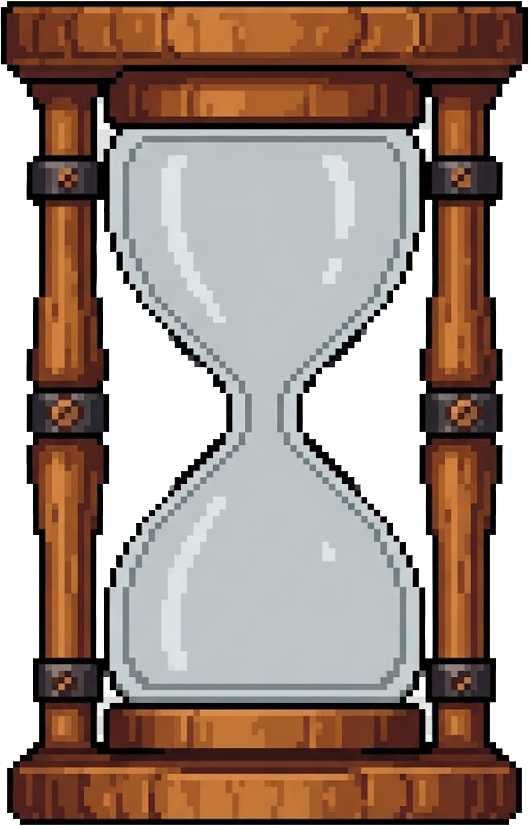
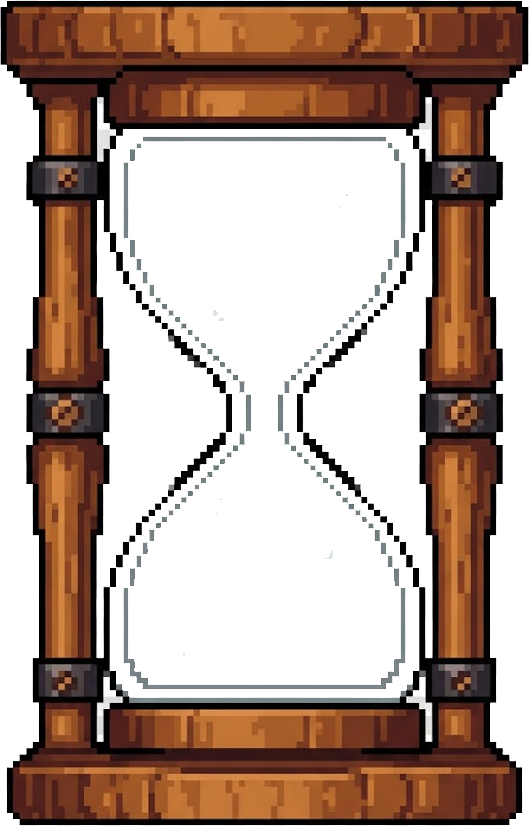
後台新增掃描器條碼、前端修改透明沙漏

diff --git a/functions/api/admin/update-boardgame-details.js b/functions/api/admin/update-boardgame-details.js
@@ -44,10 +44,18 @@ export async function onRequest(context) {
   
     const db = context.env.DB;
     
+    const barcode = body.barcode ? String(body.barcode).trim() : null;
+    if (barcode) {
+        const dup = await db.prepare('SELECT game_id FROM BoardGames WHERE barcode = ? AND game_id != ?').bind(barcode, body.gameId).first();
+        if (dup) {
+            return new Response(JSON.stringify({ error: `此條碼已被「${dup.game_id}」使用，請確認條碼是否重複。` }), { status: 400 });
+        }
+    }
+
     const stmt = db.prepare(
       `UPDATE BoardGames SET
-         name = ?, description = ?, image_url = ?, image_url_2 = ?, image_url_3 = ?, tags = ?,
-         min_players = ?, max_players = ?, difficulty = ?, play_time = ?,  
+         name = ?, barcode = ?, description = ?, image_url = ?, image_url_2 = ?, image_url_3 = ?, tags = ?,
+         min_players = ?, max_players = ?, difficulty = ?, play_time = ?,
          total_stock = ?, for_rent_stock = ?, for_sale_stock = ?,
          sale_price = ?, rent_price = ?, deposit = ?, late_fee_per_day = ?,
          is_visible = ?, supplementary_info = ?
@@ -56,7 +64,7 @@ export async function onRequest(context) {
     const is_visible = Number(body.total_stock) > 0 ? 1 : 0;
 
     const result = await stmt.bind(
-        body.name, body.description || '', body.image_url || '', body.image_url_2 || '', body.image_url_3 || '', body.tags || '',
+        body.name, barcode, body.description || '', body.image_url || '', body.image_url_2 || '', body.image_url_3 || '', body.tags || '',
         Number(body.min_players), Number(body.max_players), body.difficulty,
         body.play_time || '30~90分鐘',
         Number(body.total_stock), Number(body.for_rent_stock), Number(body.for_sale_stock) || 0,

diff --git a/functions/api/admin/create-boardgame.js b/functions/api/admin/create-boardgame.js
@@ -32,19 +32,27 @@ export async function onRequest(context) {
 
         const is_visible = total_stock > 0 ? 1 : 0;
 
+        const barcode = body.barcode ? String(body.barcode).trim() : null;
+        if (barcode) {
+            const dup = await db.prepare('SELECT game_id FROM BoardGames WHERE barcode = ?').bind(barcode).first();
+            if (dup) {
+                return new Response(JSON.stringify({ error: `此條碼已被「${dup.game_id}」使用，請確認條碼是否重複。` }), { status: 400 });
+            }
+        }
+
         const stmt = db.prepare(
           `INSERT INTO BoardGames (
-             game_id, name, description, image_url, image_url_2, image_url_3, tags,
+             game_id, name, barcode, description, image_url, image_url_2, image_url_3, tags,
              min_players, max_players, difficulty, play_time,
              total_stock, for_rent_stock, for_sale_stock,
              sale_price, rent_price, deposit, late_fee_per_day,
              is_visible, supplementary_info, display_order
-           ) VALUES (?, ?, ?, ?, ?, ?, ?, ?, ?, ?, ?, ?, ?, ?, ?, ?, ?, ?, ?, ?, 999)`
+           ) VALUES (?, ?, ?, ?, ?, ?, ?, ?, ?, ?, ?, ?, ?, ?, ?, ?, ?, ?, ?, ?, ?, 999)`
         );
 
         await stmt.bind(
             newGameId,
-            body.name, body.description || '', body.image_url || '', body.image_url_2 || '', body.image_url_3 || '', body.tags || '',
+            body.name, barcode, body.description || '', body.image_url || '', body.image_url_2 || '', body.image_url_3 || '', body.tags || '',
             Number(body.min_players) || 1, Number(body.max_players) || 4, body.difficulty || '普通',
             body.play_time || '30~90分鐘',
             total_stock, for_rent_stock, for_sale_stock,

diff --git a/public/admin/modules/inventoryManagement.js b/public/admin/modules/inventoryManagement.js
@@ -429,6 +429,7 @@ function renderGameList(games) {
 function gameMatchesTerm(game, term) {
     const t = term.toLowerCase();
     if ((game.name || '').toLowerCase().includes(t)) return true;
+    if ((game.barcode || '').toLowerCase().includes(t)) return true;
     if (Number(game.for_sale_stock) > 0 && '販售'.includes(t)) return true;
     if (Number(game.for_rent_stock) > 0 && '可租借'.includes(t)) return true;
     return (game.tags || '').split(',').some(tag => tag.trim().toLowerCase().includes(t) && tag.trim() !== '');
@@ -522,6 +523,7 @@ function openEditGameModal(gameId) {
         document.getElementById('edit-game-id-display').closest('.form-group').style.display = 'block';
 
         document.getElementById('edit-game-name').value = game.name;
+        document.getElementById('edit-game-barcode').value = game.barcode || '';
         document.getElementById('edit-game-image').value = game.image_url || '';
         document.getElementById('edit-game-image-2').value = game.image_url_2 || '';
         document.getElementById('edit-game-image-3').value = game.image_url_3 || '';
@@ -582,6 +584,7 @@ async function handleEditGameFormSubmit(e) {
 
     const updatedData = {
         name: document.getElementById('edit-game-name').value,
+        barcode: document.getElementById('edit-game-barcode').value.trim(),
         tags: document.getElementById('edit-game-tags').value,
         image_url: document.getElementById('edit-game-image').value,
         image_url_2: document.getElementById('edit-game-image-2').value,

diff --git a/public/admin-panel.html b/public/admin-panel.html
@@ -787,6 +787,10 @@
                                     <input type="text" id="edit-game-id-display" readonly style="background: #e9ecef;">
                                 </div>
                                 <div class="form-group">
+                                    <label for="edit-game-barcode">條碼 <small style="color:var(--text-light);">（將游標點入此欄後掃描）</small></label>
+                                    <input type="text" id="edit-game-barcode" placeholder="請掃描或手動輸入條碼">
+                                </div>
+                                <div class="form-group">
                                     <label>標籤 <small style="color:var(--text-light);">（Enter 新增，× 移除）</small></label>
                                     <div class="tag-chip-container" id="tag-chip-container">
                                         <input type="text" class="tag-chip-text-input" id="tag-chip-text-input" placeholder="輸入標籤後按 Enter">

diff --git a/public/style.css b/public/style.css
@@ -651,12 +651,6 @@ input[readonly] {
     position: relative;
     width: 20px;
     height: 31px;
-    background-image: url('hourglass-frame.png');
-    background-size: contain;
-    background-repeat: no-repeat;
-    background-position: center;
-    image-rendering: pixelated;
-    isolation: isolate;
 }
 .hourglass-fill-track {
     position: absolute;
@@ -664,6 +658,7 @@ input[readonly] {
     right: 20%;
     top: 13%;
     bottom: 15%;
+    overflow: hidden;
 }
 .hourglass-fill {
     position: absolute;
@@ -671,8 +666,17 @@ input[readonly] {
     right: 0;
     bottom: 0;
     height: 0%;
-    mix-blend-mode: multiply;
     transition: height 0.4s ease;
+}
+.hourglass-frame-image {
+    position: absolute;
+    inset: 0;
+    background-image: url('hourglass-frame.png');
+    background-size: contain;
+    background-repeat: no-repeat;
+    background-position: center;
+    image-rendering: pixelated;
+    pointer-events: none;
 }
 .hourglass-item-value {
     font-size: 0.62em;

diff --git a/public/script.js b/public/script.js
@@ -507,6 +507,7 @@ function renderClassContribution(data) {
                     <div class="hourglass-fill-track">
                         <div class="hourglass-fill" style="height:${percent}%; background-color:${color};"></div>
                     </div>
+                    <div class="hourglass-frame-image"></div>
                 </div>
                 <div class="hourglass-item-value">${item.value || 0} pts</div>
             </div>`;
